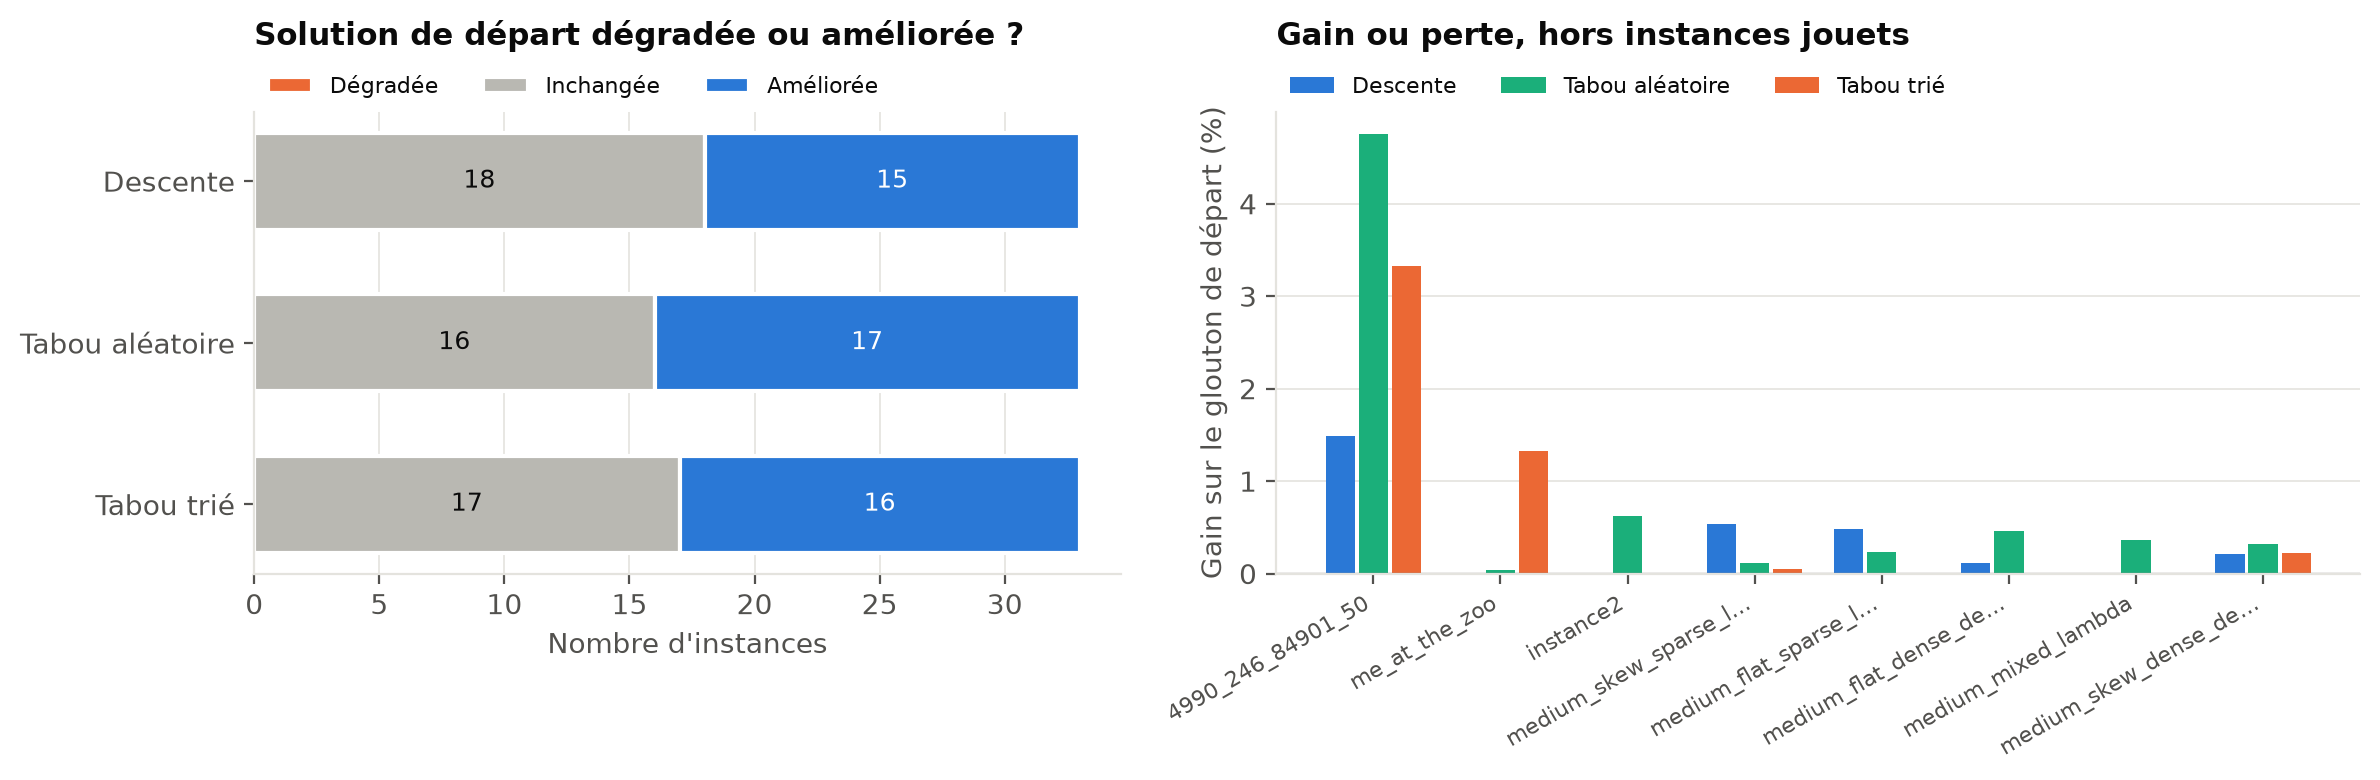
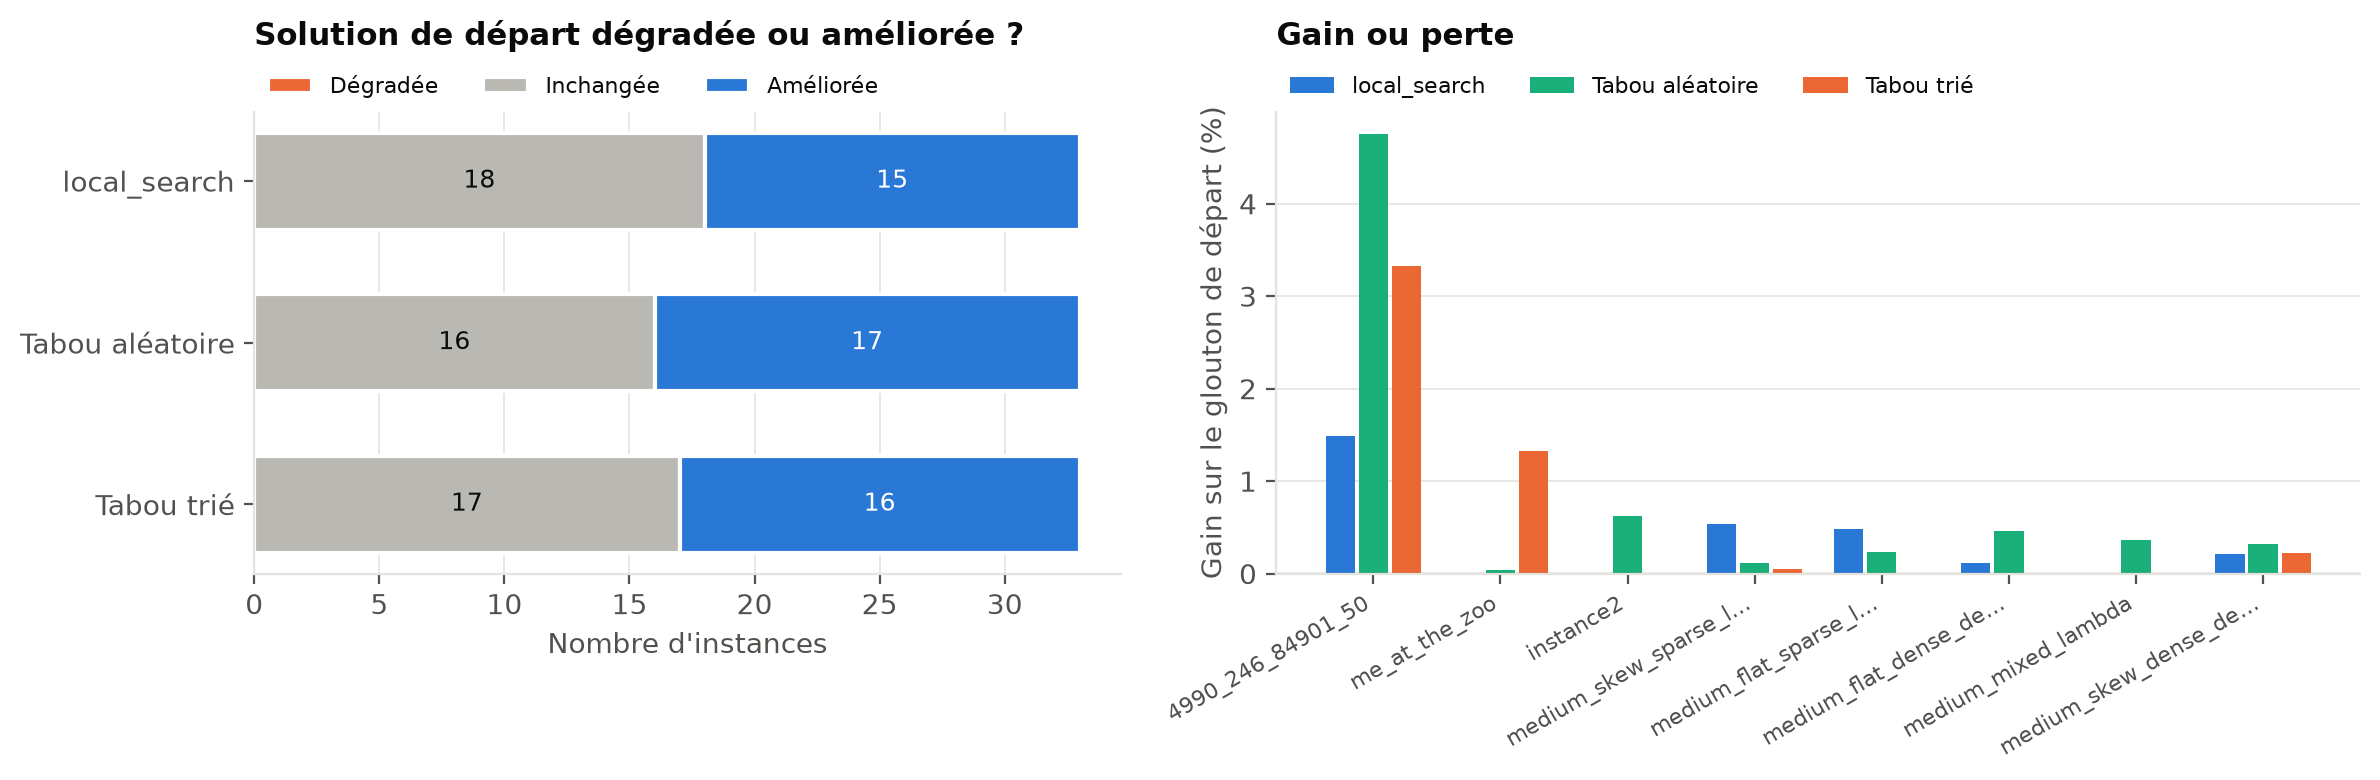
11

Changed region(s): [[0.5597, 0.0923, 0.8395, 0.1231], [0.6218, 0.0308, 0.8084, 0.0615], [0.0311, 0.2154, 0.0933, 0.2462]]

diff --git a/bench/plots.py b/bench/plots.py
@@ -25,7 +25,7 @@ NB_AUTO = 10
 ALGOS = ["Greedy", "Greedy2", "Greedy3", "KS_indep", "KS_maj", "LS", "TS", "TSS"]
 LABELS = {"Greedy": "Glouton 1", "Greedy2": "Glouton 2", "Greedy3": "Glouton 3",
           "KS_indep": "Knapsack indép.", "KS_maj": "Knapsack m.à.j.",
-          "LS": "Descente", "TS": "Tabou aléatoire", "TSS": "Tabou trié"}
+          "LS": "local_search", "TS": "Tabou aléatoire", "TSS": "Tabou trié"}
 
 # couleurs fixes par rôle (palette catégorielle : bleu, orange, aqua, jaune)
 BLUE, ORANGE, AQUA, YELLOW = "#2a78d6", "#eb6834", "#1baf7a", "#eda100"
@@ -105,17 +105,21 @@ def plot_greedies(runs, ref):
     instances = GREEDY_INSTANCES or sorted(gaps, key=lambda i: max(gaps[i]) - min(gaps[i]), reverse=True)[:NB_AUTO]
     instances = [i for i in instances if i in gaps]
 
-    fig, ax = plt.subplots(figsize=(9, 4))
-    width = 0.26
-    for k, (algo, color) in enumerate(zip(greedies, [BLUE, ORANGE, AQUA])):
-        xs = [i + (k - 1) * width for i in range(len(instances))]
-        ax.bar(xs, [gaps[i][k] for i in instances], width - 0.03, color=color, label=LABELS[algo])
-    ax.set_xticks(range(len(instances)), [short(i) for i in instances], rotation=30, ha="right")
-    ax.set_ylabel("Écart au meilleur score connu (%)")
-    ax.set_title("Les trois gloutons, sur les instances où ils diffèrent le plus (plus bas = mieux)", pad=24)
-    ax.grid(axis="x", visible=False)
-    ax.legend(ncols=3, loc="lower left", bbox_to_anchor=(0, 1), borderaxespad=0.2)
-    save(fig, "gloutons")
+    # deux versions : l'écart au meilleur score (plus bas = mieux) et la part du meilleur score atteinte (plus haut = mieux)
+    for name, inverse in [("gloutons", False), ("gloutons_inverse", True)]:
+        fig, ax = plt.subplots(figsize=(9, 4))
+        width = 0.26
+        for k, (algo, color) in enumerate(zip(greedies, [BLUE, ORANGE, AQUA])):
+            xs = [i + (k - 1) * width for i in range(len(instances))]
+            values = [100 - gaps[i][k] if inverse else gaps[i][k] for i in instances]
+            ax.bar(xs, values, width - 0.03, color=color, label=LABELS[algo])
+        ax.set_xticks(range(len(instances)), [short(i) for i in instances], rotation=30, ha="right")
+        ax.set_ylabel("Part du meilleur score connu (%)" if inverse else "Écart au meilleur score connu (%)")
+        ax.set_title("Les trois gloutons, sur les instances où ils diffèrent le plus "
+                     + ("(plus haut = mieux)" if inverse else "(plus bas = mieux)"), pad=24)
+        ax.grid(axis="x", visible=False)
+        ax.legend(ncols=3, loc="lower left", bbox_to_anchor=(0, 1), borderaxespad=0.2)
+        save(fig, name)
     return instances
 
 
@@ -151,32 +155,36 @@ def plot_heatmap(runs, ref):
         return
     bounds = [1, 3, 6, 12, 25]          # classes d'écart, en %
     half = (len(instances) + 1) // 2
-    fig, axes = plt.subplots(1, 2, figsize=(13, 0.33 * half + 1.4))
-    for ax, part in zip(axes, [instances[:half], instances[half:]]):
-        for y, instance in enumerate(part):
-            for x, algo in enumerate(ALGOS):
-                rows = runs[instance][algo]
-                value = gap(mean_score(rows), ref[instance]) if rows else None
-                if value is None:
-                    color, text, dark = "#f0efec", "–", False
-                else:
-                    level = sum(value > b for b in bounds)
-                    color, text, dark = SEQUENTIAL[level], f"{value:.1f}" + ("*" if timed_out(rows) else ""), level >= 3
-                ax.add_patch(plt.Rectangle((x + 0.03, y + 0.06), 0.94, 0.88, color=color, linewidth=0))
-                ax.text(x + 0.5, y + 0.5, text, ha="center", va="center", fontsize=8, color="white" if dark else INK)
-        ax.set_xlim(0, len(ALGOS))
-        ax.set_ylim(len(part), 0)
-        ax.set_xticks([x + 0.5 for x in range(len(ALGOS))], [LABELS[a] for a in ALGOS], rotation=30, ha="left", fontsize=8)
-        ax.xaxis.tick_top()
-        ax.set_yticks([y + 0.5 for y in range(len(part))], [short(i) for i in part], fontsize=8)
-        ax.tick_params(length=0)
-        ax.grid(False)
-        for spine in ax.spines.values():
-            spine.set_visible(False)
-    fig.tight_layout()
-    fig.text(0.01, -0.02, "Écart au meilleur score connu, en % (plus clair = mieux).  * limite de temps atteinte.  « – » : pas de résultat.",
-             color=INK2, fontsize=8)
-    save(fig, "vue_ensemble")
+    # deux versions de l'écart au meilleur score : plus clair = mieux, ou plus foncé = mieux
+    for name, inverse in [("vue_ensemble", False), ("vue_ensemble_inverse", True)]:
+        fig, axes = plt.subplots(1, 2, figsize=(13, 0.33 * half + 1.4))
+        for ax, part in zip(axes, [instances[:half], instances[half:]]):
+            for y, instance in enumerate(part):
+                for x, algo in enumerate(ALGOS):
+                    rows = runs[instance][algo]
+                    value = gap(mean_score(rows), ref[instance]) if rows else None
+                    if value is None:
+                        color, text, dark = "#f0efec", "–", False
+                    else:
+                        level = sum(value > b for b in bounds)
+                        if inverse:
+                            level = len(bounds) - level
+                        color, text, dark = SEQUENTIAL[level], f"{value:.1f}" + ("*" if timed_out(rows) else ""), level >= 3
+                    ax.add_patch(plt.Rectangle((x + 0.03, y + 0.06), 0.94, 0.88, color=color, linewidth=0))
+                    ax.text(x + 0.5, y + 0.5, text, ha="center", va="center", fontsize=8, color="white" if dark else INK)
+            ax.set_xlim(0, len(ALGOS))
+            ax.set_ylim(len(part), 0)
+            ax.set_xticks([x + 0.5 for x in range(len(ALGOS))], [LABELS[a] for a in ALGOS], rotation=30, ha="left", fontsize=8)
+            ax.xaxis.tick_top()
+            ax.set_yticks([y + 0.5 for y in range(len(part))], [short(i) for i in part], fontsize=8)
+            ax.tick_params(length=0)
+            ax.grid(False)
+            for spine in ax.spines.values():
+                spine.set_visible(False)
+        fig.tight_layout()
+        legend = "Écart au meilleur score connu, en % (plus foncé = mieux)." if inverse else "Écart au meilleur score connu, en % (plus clair = mieux)."
+        fig.text(0.01, -0.02, legend + "  * limite de temps atteinte.  « – » : pas de résultat.", color=INK2, fontsize=8)
+        save(fig, name)
 
 
 # ============================ 3. Recherche locale ============================
@@ -230,7 +238,7 @@ def plot_local_search(runs):
     right.axhline(0, color=INK2, linewidth=0.8)
     right.set_xticks(range(len(instances)), [short(i) for i in instances], rotation=30, ha="right", fontsize=8)
     right.set_ylabel("Gain sur le glouton de départ (%)")
-    right.set_title("Gain ou perte, hors instances jouets", pad=24)
+    right.set_title("Gain ou perte", pad=24)
     right.grid(axis="x", visible=False)
     right.legend(ncols=3, loc="lower left", bbox_to_anchor=(0, 1), borderaxespad=0.2, fontsize=8)
     fig.tight_layout()
@@ -266,6 +274,35 @@ def plot_before_after(runs, before):
     ax.grid(axis="y", visible=False)
     ax.legend(ncols=3, loc="lower left", bbox_to_anchor=(0, 1), borderaxespad=0.2, fontsize=8)
     save(fig, "recherche_locale_avant_apres")
+
+
+def plot_seeds(runs, nb=10):
+    """Tabou aléatoire : dispersion du gain selon la graine, sur les instances non jouets où il varie le plus."""
+    gains = {}
+    for instance, algos in runs.items():
+        rows = [r for r in algos["TS"] if r["status"] in ("ok", "timeout") and number(r["start_score"])]
+        if len(rows) > 1 and instance not in TOY:
+            gains[instance] = [(number(r["score"]) - number(r["start_score"])) / number(r["start_score"]) * 100 for r in rows]
+    instances = sorted(gains, key=lambda i: max(gains[i]) - min(gains[i]), reverse=True)[:nb]
+    instances = [i for i in instances if max(gains[i]) > min(gains[i])]
+    if not instances:
+        return
+    fig, ax = plt.subplots(figsize=(9, 0.36 * len(instances) + 1.3))
+    for y, instance in enumerate(instances):
+        values = gains[instance]
+        ax.plot([min(values), max(values)], [y, y], color=GREY, linewidth=2, zorder=2, solid_capstyle="round")
+        # léger décalage vertical par graine, pour distinguer les graines qui donnent le même résultat
+        ax.scatter(values, [y + (k - (len(values) - 1) / 2) * 0.05 for k in range(len(values))], s=26, color=AQUA,
+                   edgecolor="white", linewidth=0.6, zorder=3, label="seed" if y == 0 else None)
+        ax.scatter([mean(values)], [y], marker="|", s=260, color=INK, linewidth=1.8, zorder=4, label="Moyenne" if y == 0 else None)
+    ax.set_yticks(range(len(instances)), [short(i) for i in instances], fontsize=8)
+    ax.set_ylim(len(instances) - 0.4, -0.6)
+    ax.set_xlabel("Gain sur le glouton de départ (%)")
+    nb_seeds = max(len(v) for v in gains.values())
+    ax.set_title(f"Tabou aléatoire selon la seed ({nb_seeds} seeds/instance)", pad=24)
+    ax.grid(axis="y", visible=False)
+    ax.legend(ncols=2, loc="lower left", bbox_to_anchor=(0, 1), borderaxespad=0.2, fontsize=8)
+    save(fig, "tabou_graines")
 
 
 def plot_neighbourhood(grid, field="score", directory=None,
@@ -356,6 +393,11 @@ def plot_knapsack_update(runs, features):
     ax.scatter([p[0] for p in points], [p[1] for p in points], s=45, color=BLUE, edgecolor="white", linewidth=1, zorder=3)
     for x, y, instance in sorted(points, key=lambda p: -abs(p[1]))[:3]:
         ax.annotate(short(instance), (x, y), xytext=(6, 4), textcoords="offset points", fontsize=7, color=INK2)
+    # dense et dense2 sont au même endroit : une seule étiquette pour les deux
+    same = [p[2] for p in points if p[:2] == next((q[:2] for q in points if q[2] == "dense"), None)]
+    if same:
+        x, y = next(p[:2] for p in points if p[2] == "dense")
+        ax.annotate(", ".join(sorted(same)), (x, y), xytext=(0, -12), textcoords="offset points", ha="center", fontsize=7, color=INK2)
     ax.axhline(0, color=INK2, linewidth=0.8)
     # échelle linéaire jusqu'à 10 %, logarithmique au-delà : quelques gains dépassent 100 %
     ax.set_yscale("symlog", linthresh=10)
@@ -430,6 +472,7 @@ def main():
     plot_heatmap(runs, ref)
     plot_local_search(runs)
     plot_before_after(runs, load_runs(BEFORE_CSV))
+    plot_seeds(runs)
     plot_neighbourhood(grid)
     plot_knapsack_branches(runs, features)
     plot_knapsack_update(runs, features)
